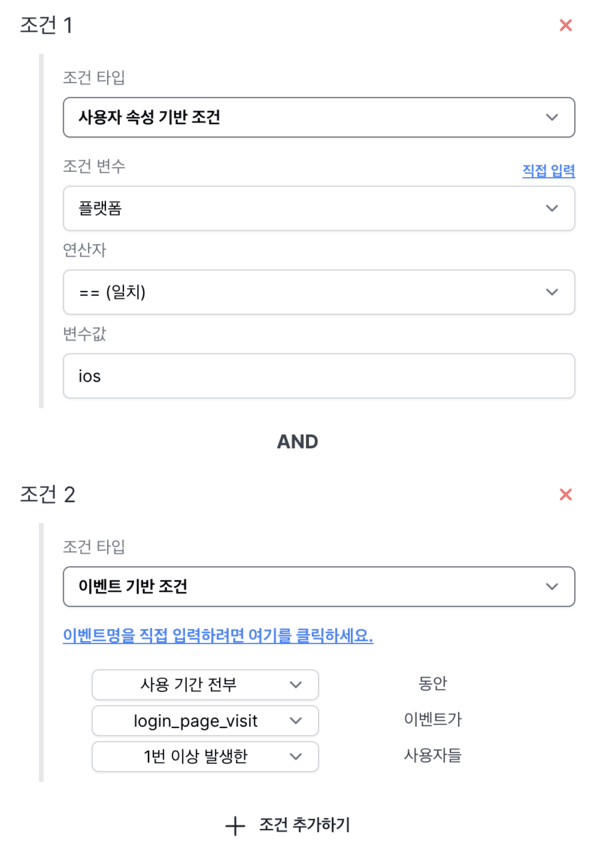
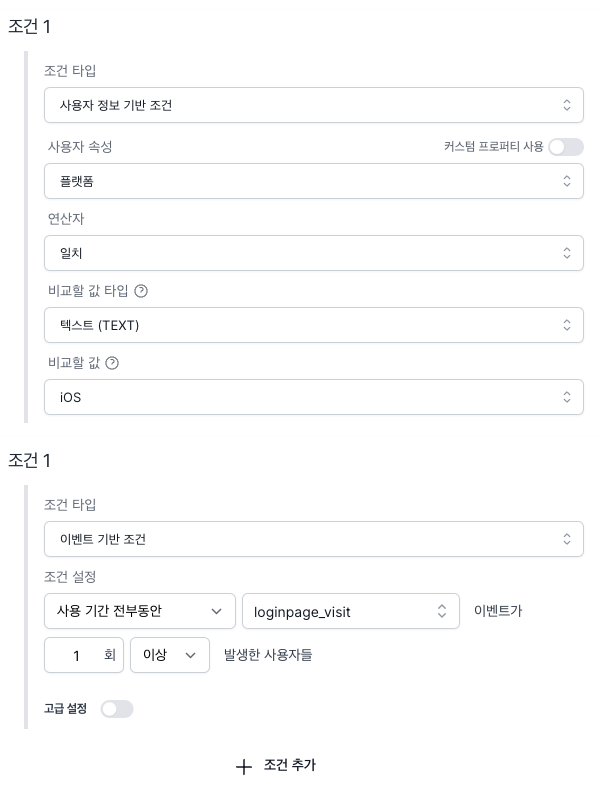
fix: update user group condition markdown and images (#157)

diff --git a/i18n/ko/docusaurus-plugin-content-docs/current/user-guide/campaigns/campaign-segments/segment.md b/i18n/ko/docusaurus-plugin-content-docs/current/user-guide/campaigns/campaign-segments/segment.md
@@ -53,11 +53,12 @@ _[API 기반 발송 캠페인](/ko/user-guide/campaigns/basic#api-기반-발송)
 #### 사용자 속성 기반 조건
 
 - 사용자의 디바이스 정보 또는 속성을 이용하여 조건을 설정합니다.
-- 해당 경우, 필수적으로 입력되어야하는 세 가지의 정보는 다음과 같습니다.
-  1. 조건 변수: 조건 변수는 직접 입력하거나, 드랍다운 옵션에서 선택할 수 있습니다.
+- 해당 경우, 필수적으로 입력되어야하는 네 가지의 정보는 다음과 같습니다.
+  1. 조건 변수 (사용자 속성): 조건 변수는 직접 입력하거나, 드랍다운 옵션에서 선택할 수 있습니다.
   2. 연산자: 연산자는 일치, 불일치, 이상(이하), 초과(미만)이 지원됩니다. 조건 변수의 종류에 따라 지원되는 범위가 상이할 수 있으니 유의해주세요.
-  3. 변수값: 변수값은 조건 변수와 연산될 값입니다.
-- 세 가지의 정보가 제대로 입력되지 않을 경우, 캠페인을 생성할 수 없으니 주의해주세요.
+  3. 변수 타입: 변수 타입은 변수값의 형태(텍스트, 숫자 등) 입니다.
+  4. 변수값: 변수값은 조건 변수와 연산될 값입니다.
+- 네 가지의 정보가 제대로 입력되지 않을 경우, 캠페인을 생성할 수 없으니 주의해주세요.
 - ![Invalid condition example](../img/campaign_invalid_condition.png)
 
 <!-- TODO: Detailed explanation -->
